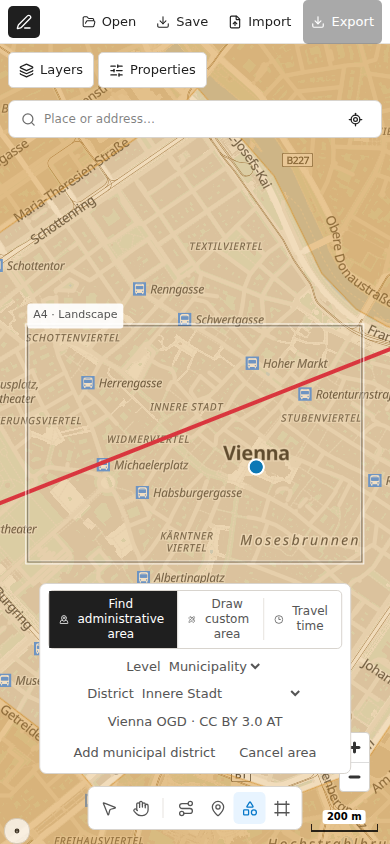
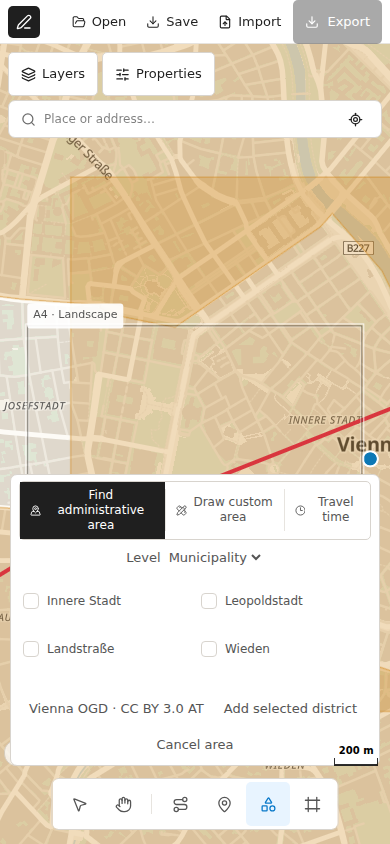
[verified] merge connected Vienna districts

diff --git a/tests/e2e/shape-authoring.spec.ts b/tests/e2e/shape-authoring.spec.ts
@@ -6,7 +6,7 @@ const isHeadlessWebGlDiagnostic = (message: string) => (
   || message.includes('AllowWebgl2:false restricts context creation on this system')
 );
 
-test('Vienna municipality catalogue preserves source credit through project and print downloads', async ({ page }, testInfo) => {
+test('Vienna municipality selection and merging preserve source credit through project and print downloads', async ({ page }, testInfo) => {
   const consoleProblems: string[] = [];
   page.on('pageerror', (error) => { consoleProblems.push(error.message); });
   page.on('console', (message) => {
@@ -19,17 +19,18 @@ test('Vienna municipality catalogue preserves source credit through project and 
 
   await page.getByRole('button', { name: 'Area (S)' }).click();
   await page.getByRole('combobox', { name: 'Administrative level' }).selectOption('municipality');
-  const district = page.getByRole('combobox', { name: 'Vienna district' });
-  await expect(district.getByRole('option')).toHaveCount(23);
+  const districts = page.getByRole('group', { name: 'Vienna districts' });
+  await expect(districts.getByRole('checkbox')).toHaveCount(23);
   await expect(page.getByRole('link', { name: 'Vienna district boundaries source' })).toHaveAttribute('href', /BEZIRKSGRENZEOGD/);
   await expect(page.getByRole('link', { name: 'CC BY 3.0 AT license' })).toHaveAttribute('href', 'https://creativecommons.org/licenses/by/3.0/at/');
-  await district.selectOption('AT-9-01');
-  await page.getByRole('button', { name: 'Add municipal district' }).click();
-  await expect(page.getByRole('button', { name: 'Select Innere Stadt' })).toHaveAttribute('aria-current', 'true');
-  await expect(page.getByTestId('map-canvas')).toHaveAttribute('data-map-layer-geometry', /admin-at-9-01:/);
+  await page.getByRole('checkbox', { name: 'Innere Stadt' }).check();
+  await page.getByRole('checkbox', { name: 'Josefstadt' }).check();
+  await page.getByRole('button', { name: 'Merge 2 selected districts' }).click();
+  await expect(page.getByRole('button', { name: 'Select Innere Stadt + Josefstadt' })).toHaveAttribute('aria-current', 'true');
+  await expect(page.getByTestId('map-canvas')).toHaveAttribute('data-map-layer-geometry', /admin-at-9-01-at-9-08:/);
   await page.getByRole('switch', { name: 'Invert shape fill' }).check();
-  await expect(page.getByTestId('map-canvas')).toHaveAttribute('data-map-layer-appearance', /admin-at-9-01:[^|]*:true/);
-  await page.screenshot({ animations: 'disabled', path: 'docs/screenshots/latest-desktop.png' });
+  await expect(page.getByTestId('map-canvas')).toHaveAttribute('data-map-layer-appearance', /admin-at-9-01-at-9-08:[^|]*:true/);
+  await page.screenshot({ animations: 'disabled', path: 'docs/screenshots/vienna-district-merge-20260826.png' });
 
   const projectPromise = page.waitForEvent('download');
   await page.getByRole('button', { name: 'Save' }).click();
@@ -37,10 +38,11 @@ test('Vienna municipality catalogue preserves source credit through project and 
   const projectPath = testInfo.outputPath('vienna-district.printmap.json');
   await projectDownload.saveAs(projectPath);
   const project = JSON.parse(await readFile(projectPath, 'utf8'));
-  const districtLayer = project.layers.find(({ id }: { id: string }) => id === 'admin-at-9-01');
+  const districtLayer = project.layers.find(({ id }: { id: string }) => id === 'admin-at-9-01-at-9-08');
   expect(project.schemaVersion).toBe(20);
-  expect(districtLayer).toMatchObject({ name: 'Innere Stadt', geometry: { type: 'Polygon' }, appearance: { invert: true } });
-  expect(districtLayer.geometry.coordinates.flat().length).toBeLessThanOrEqual(500);
+  expect(districtLayer).toMatchObject({ name: 'Innere Stadt + Josefstadt', geometry: { type: 'Polygon' }, appearance: { invert: true } });
+  expect(districtLayer.geometry.coordinates).toHaveLength(1);
+  expect(districtLayer.geometry.coordinates.flat().length).toBeLessThanOrEqual(1000);
 
   await page.getByRole('button', { name: 'Export' }).click();
   const dialog = page.getByRole('dialog', { name: 'Export map' });
@@ -51,13 +53,14 @@ test('Vienna municipality catalogue preserves source credit through project and 
   const svgPath = testInfo.outputPath('vienna-district.layered.svg');
   await svgDownload.saveAs(svgPath);
   const svg = await readFile(svgPath, 'utf8');
-  expect(svg).toContain('data-layer-name="Innere Stadt"');
+  expect(svg).toContain('data-layer-name="Innere Stadt + Josefstadt"');
   expect(svg).toContain('City of Vienna OGD (CC BY 3.0 AT; boundaries simplified)');
 
   await page.getByRole('button', { name: 'Close export' }).click();
   await page.setViewportSize({ width: 390, height: 844 });
   await page.getByRole('button', { name: 'Area (S)' }).click();
   await page.getByRole('combobox', { name: 'Administrative level' }).selectOption('municipality');
+  await expect(page.getByRole('group', { name: 'Vienna districts' }).getByRole('checkbox')).toHaveCount(23);
   await page.screenshot({ animations: 'disabled', path: 'docs/screenshots/latest-mobile.png' });
   const panel = page.locator('.map-authoring-panel');
   const panelBox = await panel.boundingBox();

diff --git a/src/domain/administrativeAreas.ts b/src/domain/administrativeAreas.ts
@@ -1,3 +1,4 @@
+import { union as unionPolygons, type Polygon as ClippingPolygon } from 'polygon-clipping';
 import type { LayerGeometry } from './project';
 import { AUSTRIA_ADMIN_1_REGIONS } from '../data/austriaAdmin1';
 import { AUSTRIA_TYROL_REGION } from '../data/austriaTyrol';
@@ -32,6 +33,8 @@ type PolygonAdministrativeArea = AdministrativeArea & {
 const SOURCE = 'Natural Earth 1:110m Admin 0 Countries (public domain), downloaded 2026-08-23';
 const REGION_SOURCE = 'Natural Earth 1:10m Admin 1 States/Provinces (public domain), downloaded 2026-08-23';
 const MUNICIPALITY_SOURCE = 'City of Vienna Open Government Data district boundaries (CC BY 3.0 AT), downloaded 2026-08-24 and simplified at 0.00008° tolerance';
+const MUNICIPALITY_SLIVER_AREA_LIMIT = 1e-6;
+const MUNICIPALITY_SLIVER_AREA_RATIO = 1e-4;
 export const VIENNA_DISTRICT_SOURCE_URL = 'https://data.wien.gv.at/daten/geo?service=WFS&request=GetFeature&version=1.1.0&typeName=ogdwien:BEZIRKSGRENZEOGD&srsName=EPSG:4326&outputFormat=json';
 export const VIENNA_DISTRICT_LICENSE_URL = 'https://creativecommons.org/licenses/by/3.0/at/';
 const polygonRegionAreas = AUSTRIA_ADMIN_1_REGIONS.map((region): AdministrativeArea => ({
@@ -218,6 +221,27 @@ function mergeAlignedRings(areas: readonly PolygonAdministrativeArea[]): [number
   });
 }
 
+function mergeMunicipalityPolygons(areas: readonly PolygonAdministrativeArea[]): [number, number][][] | undefined {
+  try {
+    const polygons = areas.map(({ geometry }) => geometry.coordinates.map((ring) => (
+      ring.map(([longitude, latitude]) => [longitude, latitude] as [number, number])
+    )) as ClippingPolygon);
+    const [first, ...remaining] = polygons;
+    const merged = unionPolygons(first, ...remaining);
+    if (merged.length !== 1) return;
+    const [exterior, ...holes] = merged[0];
+    if (!exterior) return;
+    const sliverAreaLimit = Math.max(
+      MUNICIPALITY_SLIVER_AREA_LIMIT,
+      Math.abs(ringArea(exterior)) * MUNICIPALITY_SLIVER_AREA_RATIO,
+    );
+    const meaningfulHoles = holes.filter((ring) => Math.abs(ringArea(ring)) > sliverAreaLimit);
+    return [exterior, ...meaningfulHoles].map((ring) => ring.map(([longitude, latitude]) => [longitude, latitude]));
+  } catch {
+    return undefined;
+  }
+}
+
 function ringArea(ring: readonly (readonly [number, number])[]): number {
   let area = 0;
   for (let index = 1; index < ring.length; index += 1) {
@@ -228,23 +252,39 @@ function ringArea(ring: readonly (readonly [number, number])[]): number {
   return area / 2;
 }
 
-export function mergeAdministrativeAreas(ids: readonly string[]): AdministrativeArea | undefined {
+type MergeableAdministrativeLevel = Extract<AdministrativeArea['level'], 'region' | 'municipality'>;
+
+type AdministrativeAreaSelection = {
+  areas: AdministrativeArea[];
+  level: MergeableAdministrativeLevel;
+};
+
+function administrativeAreaSelection(ids: readonly string[]): AdministrativeAreaSelection | undefined {
   const uniqueIds = [...new Set(ids)];
   if (uniqueIds.length === 0 || uniqueIds.length !== ids.length) return;
   const areas = uniqueIds.map((id) => administrativeAreaById(id));
-  if (areas.some((area) => !area || area.level !== 'region')) return;
-  const regions = areas as AdministrativeArea[];
-  if (regions.length === 1) return regions[0];
-  if (regions.some(({ geometry }) => geometry.type !== 'Polygon')) return;
-  const polygonRegions = regions as PolygonAdministrativeArea[];
-  if (!isConnectedSelection(polygonRegions)) return;
-  const coordinates = mergeAlignedRings(polygonRegions);
+  const level = areas[0]?.level;
+  if ((level !== 'region' && level !== 'municipality') || areas.some((area) => !area || area.level !== level)) return;
+  return { areas: areas as AdministrativeArea[], level };
+}
+
+export function mergeAdministrativeAreas(ids: readonly string[]): AdministrativeArea | undefined {
+  const selection = administrativeAreaSelection(ids);
+  if (!selection) return;
+  const { areas: selectedAreas, level } = selection;
+  if (selectedAreas.length === 1) return selectedAreas[0];
+  if (selectedAreas.some(({ geometry }) => geometry.type !== 'Polygon')) return;
+  const polygonAreas = selectedAreas as PolygonAdministrativeArea[];
+  if (!isConnectedSelection(polygonAreas)) return;
+  const coordinates = level === 'municipality'
+    ? mergeMunicipalityPolygons(polygonAreas)
+    : mergeAlignedRings(polygonAreas);
   if (!coordinates) return;
   return {
-    id: regions.map(({ id }) => id).join('+'),
-    name: regions.map(({ name }) => name).join(' + '),
-    level: 'region',
-    source: REGION_SOURCE,
+    id: selectedAreas.map(({ id }) => id).join('+'),
+    name: selectedAreas.map(({ name }) => name).join(' + '),
+    level,
+    source: level === 'municipality' ? MUNICIPALITY_SOURCE : REGION_SOURCE,
     geometry: { type: 'Polygon', coordinates },
   };
 }

diff --git a/src/app/components/AdministrativeAreaPicker.tsx b/src/app/components/AdministrativeAreaPicker.tsx
@@ -20,11 +20,20 @@ export function AdministrativeAreaPicker({ onAdd, onMerge }: AdministrativeAreaP
   const municipalityAreas = ADMINISTRATIVE_AREAS.filter(({ level }) => level === 'municipality');
   const [level, setLevel] = useState<AdministrativeArea['level']>('country');
   const [countryAreaId, setCountryAreaId] = useState<AdministrativeAreaId>(countryAreas[0].id as AdministrativeAreaId);
-  const [municipalityAreaId, setMunicipalityAreaId] = useState<AdministrativeAreaId>(municipalityAreas[0].id as AdministrativeAreaId);
+  const [selectedMunicipalityIds, setSelectedMunicipalityIds] = useState<AdministrativeAreaId[]>([]);
   const [selectedRegionIds, setSelectedRegionIds] = useState<AdministrativeAreaId[]>([]);
+  const [municipalityError, setMunicipalityError] = useState('');
   const [regionError, setRegionError] = useState('');
+  const selectedMunicipalityIdSet = useMemo(() => new Set(selectedMunicipalityIds), [selectedMunicipalityIds]);
   const selectedRegionIdSet = useMemo(() => new Set(selectedRegionIds), [selectedRegionIds]);
   const selectedCountry = administrativeAreaById(countryAreaId);
+  const toggleMunicipality = (id: AdministrativeAreaId, isChecked: boolean) => {
+    setMunicipalityError('');
+    setSelectedMunicipalityIds((current) => isChecked ? [...current, id] : current.filter((candidate) => candidate !== id));
+  };
+  const mergeMunicipalities = () => {
+    if (!onMerge(selectedMunicipalityIds)) setMunicipalityError('Choose connected Vienna districts.');
+  };
   const toggleRegion = (id: AdministrativeAreaId, isChecked: boolean) => {
     setRegionError('');
     setSelectedRegionIds((current) => isChecked ? [...current, id] : current.filter((candidate) => candidate !== id));
@@ -56,9 +65,15 @@ export function AdministrativeAreaPicker({ onAdd, onMerge }: AdministrativeAreaP
         </>
       ) : (
         <>
-          <label>District <select aria-label="Vienna district" value={municipalityAreaId} onChange={(event) => setMunicipalityAreaId(event.target.value as AdministrativeAreaId)}>{municipalityAreas.map((area) => <option key={area.id} value={area.id}>{area.name}</option>)}</select></label>
+          <fieldset className="administrative-region-options">
+            <legend>Vienna districts</legend>
+            {municipalityAreas.map((area) => (
+              <Checkbox key={area.id} isChecked={selectedMunicipalityIdSet.has(area.id as AdministrativeAreaId)} label={area.name} onCheckedChange={(isChecked) => toggleMunicipality(area.id as AdministrativeAreaId, isChecked)} />
+            ))}
+          </fieldset>
           <span className="authoring-source"><a aria-label="Vienna district boundaries source" href={VIENNA_DISTRICT_SOURCE_URL} rel="noreferrer" target="_blank">Vienna OGD</a> · <a aria-label="CC BY 3.0 AT license" href={VIENNA_DISTRICT_LICENSE_URL} rel="noreferrer" target="_blank">CC BY 3.0 AT</a></span>
-          <button type="button" onClick={() => onAdd(municipalityAreaId)}>Add municipal district</button>
+          <button type="button" disabled={selectedMunicipalityIds.length === 0} onClick={mergeMunicipalities}>{selectedMunicipalityIds.length > 1 ? `Merge ${selectedMunicipalityIds.length} selected districts` : 'Add selected district'}</button>
+          {municipalityError && <span className="administrative-region-error" role="alert" aria-label="Administrative area status">{municipalityError}</span>}
         </>
       ))}
     </>

diff --git a/tests/unit/app/app-shape-authoring.test.tsx b/tests/unit/app/app-shape-authoring.test.tsx
@@ -24,6 +24,24 @@ it('uses roving arrow, Home, and End selection in the Shape tablist', async () =
   expect(screen.getByRole('tab', { name: 'Travel time' })).toHaveFocus();
 });
 
+it('merges selected Vienna districts as one fitted undoable shape', async () => {
+  const user = userEvent.setup();
+  render(<App autosaveRepository={null} />);
+
+  await user.click(screen.getByRole('button', { name: 'Area (S)' }));
+  await user.selectOptions(screen.getByRole('combobox', { name: 'Administrative level' }), 'municipality');
+  await user.click(screen.getByRole('checkbox', { name: 'Innere Stadt' }));
+  await user.click(screen.getByRole('checkbox', { name: 'Josefstadt' }));
+  await user.click(screen.getByRole('button', { name: 'Merge 2 selected districts' }));
+
+  const merged = screen.getByRole('button', { name: 'Select Innere Stadt + Josefstadt' });
+  expect(merged).toHaveAttribute('aria-current', 'true');
+  expect(screen.getByTestId('map-canvas')).toHaveAttribute('data-fit-layer-id', 'admin-at-9-01-at-9-08');
+  expect(screen.getByRole('button', { name: 'Select (V)' })).toHaveFocus();
+  await user.click(screen.getByRole('button', { name: 'Undo' }));
+  expect(merged).not.toBeInTheDocument();
+});
+
 describe('polygon authoring', () => {
   it('adds one sourced Vienna municipal district as a fitted undoable shape', async () => {
     const user = userEvent.setup();
@@ -31,16 +49,16 @@ describe('polygon authoring', () => {
 
     await user.click(screen.getByRole('button', { name: 'Area (S)' }));
     await user.selectOptions(screen.getByRole('combobox', { name: 'Administrative level' }), 'municipality');
-    const district = screen.getByRole('combobox', { name: 'Vienna district' });
-    expect(within(district).getAllByRole('option')).toHaveLength(23);
-    await user.selectOptions(district, 'AT-9-01');
+    const districts = screen.getByRole('group', { name: 'Vienna districts' });
+    expect(within(districts).getAllByRole('checkbox')).toHaveLength(23);
+    await user.click(within(districts).getByRole('checkbox', { name: 'Innere Stadt' }));
     expect(screen.getByRole('link', { name: 'Vienna district boundaries source' })).toHaveAttribute(
       'href', expect.stringContaining('BEZIRKSGRENZEOGD'),
     );
     expect(screen.getByRole('link', { name: 'CC BY 3.0 AT license' })).toHaveAttribute(
       'href', 'https://creativecommons.org/licenses/by/3.0/at/',
     );
-    await user.click(screen.getByRole('button', { name: 'Add municipal district' }));
+    await user.click(screen.getByRole('button', { name: 'Add selected district' }));
 
     const layer = screen.getByRole('button', { name: 'Select Innere Stadt' });
     expect(layer).toHaveAttribute('aria-current', 'true');

diff --git a/tests/unit/administrative-areas.test.ts b/tests/unit/administrative-areas.test.ts
@@ -115,6 +115,34 @@ describe('bundled administrative areas', () => {
     expect(mergeAdministrativeAreas(['AT-1', 'AT-8'])).toBeUndefined();
   });
 
+  it('merges adjacent Vienna municipal districts without an internal border', () => {
+    const merged = mergeAdministrativeAreas(['AT-9-01', 'AT-9-08']);
+
+    expect(merged).toMatchObject({
+      id: 'AT-9-01+AT-9-08',
+      name: 'Innere Stadt + Josefstadt',
+      level: 'municipality',
+    });
+    expect(merged?.geometry.type).toBe('Polygon');
+    expect(merged?.geometry.coordinates).toHaveLength(1);
+    expect(mergeAdministrativeAreas(['AT-9-01', 'AT-9-23'])).toBeUndefined();
+    expect(mergeAdministrativeAreas(['AT-9-01', 'AT-3'])).toBeUndefined();
+  });
+
+  it('merges representative connected Vienna selections without artificial holes', () => {
+    const selections = [
+      ['AT-9-02', 'AT-9-20'],
+      ['AT-9-16', 'AT-9-17'],
+      ADMINISTRATIVE_AREAS.filter(({ level }) => level === 'municipality').map(({ id }) => id),
+    ];
+
+    for (const selection of selections) {
+      const merged = mergeAdministrativeAreas(selection);
+      expect(merged?.geometry.type, selection.join(' + ')).toBe('Polygon');
+      expect(merged?.geometry.coordinates, selection.join(' + ')).toHaveLength(1);
+    }
+  });
+
   it('adds a selected administrative area as one undoable canonical shape', () => {
     const store = createProjectStore(createInitialProjectDocument());
 

diff --git a/docs/FEATURE_PARITY.md b/docs/FEATURE_PARITY.md
@@ -24,7 +24,7 @@ This comparison treats the current official Printmaps.net product pages as the e
 | Native-detail print PNG | Implemented with explicit multi-region guards | `src/map/NativeMapExport.ts` renders each preflight region through a fresh target-pixel MapLibre map at increased zoom, scales basemap and canonical overlay styling into print pixels, and fails closed for pitched or independently placed symbol seams; `src/export/printSizePng.ts` composes safe overlap regions 1:1; unit and browser export tests prove exact 3508×2480 and guarded two-region 7087×591 output. | This is native target-resolution raster rendering, not a browser-canvas enlargement. Multi-region jobs require 0° pitch and Labels off; single-region jobs retain labels and pitch. PNG still has no embedded physical-resolution metadata. |
 | Expert route drawing and vertex editing | Partial / substantially expanded | `src/app/components/CanvasWorkspace.tsx`; `src/app/hooks/useDirectionsAuthoring.ts`; `src/services/mapbox/directions.ts`; `src/domain/routeProfiles.ts`; `src/map/RouteVertexEditing.ts`; focused store/component/provider coverage and `tests/e2e/road-routing.spec.ts` | Straight drawing, canonical two-anchor projected/Mercator arcs and Mapbox road routing for driving/walking/cycling are implemented. Provider geometry is normalized into editable schema-20 `LineString` state with compact provenance, one-step Undo/Redo, autosave/portable persistence and offline native-PNG/layered-SVG/PDF parity; exports never replay the provider request. Explicit address-search results and map clicks both populate road-route waypoints. Six optional travel-mode markers and direct vertex editing remain available; the compact mode markers are not a full pictographic icon catalogue. |
 | POI placement, coordinates, appearance and batch entry | Partial / substantially expanded | Point authoring and coordinate controls in `src/app/`; explicit Mapbox address results become one named schema-20 POI with compact `geocoding-v6` provenance; three canonical marker shapes, six semantic symbols and optional 40-character labels in `src/domain/poiMarkers.ts`; bounded tab-separated coordinate and address batches under `src/domain/poiSpreadsheet.ts`; hash-owned PNG/JPEG/SVG marker validation in `src/domain/customMarkerAssets.ts`; keyboard-operable upload/remove controls; live MapLibre, native PNG and layered-SVG custom-marker coverage in `tests/e2e/layer-appearance.spec.ts`, `tests/e2e/search-poi.spec.ts` and `tests/e2e/poi-authoring.spec.ts` | Coordinate rows create up to 300 POIs locally; address mode resolves at most 25 rows sequentially through Mapbox Geocoding v6 and commits only after every lookup succeeds. Both paths are one-step Undoable, portable and exportable offline without replaying provider requests. Manual coordinate edits remove stale provider provenance. PDF currently refuses custom images instead of substituting the wrong marker; semantic symbols remain compact badges. |
[2 lines of base64/hex data omitted]
 | Elevation profiles | Partial / useful integrated workflow | A selected existing or imported route can sample at most 100 points from Open-Meteo's documented 90 m Copernicus DEM GLO-90 elevation endpoint, inspect distance/range/ascent/descent in metric or imperial units, choose an exact 50–300 mm print width, solid or two-color gradient fill, curve/fill/marker colors, a validated 20–70 font size, bounded minimum/maximum markers and independent grids, then download matching attributed SVG, PNG and PDF; focused unit and Chromium coverage under `tests/unit/elevation-profile*.test.*` and `tests/e2e/elevation-profile.spec.ts` proves exact physical/vector dimensions and width-scaled PNG pixels. | This is an on-demand external-service workflow, not offline terrain. The public Open-Meteo endpoint is documented for non-commercial use unless a commercial customer endpoint or self-hosting is arranged. The local markers intentionally label only minimum/maximum elevations rather than every sample. A curve-stroke toggle, direct profile-only file upload and walking/cycling time estimates remain absent. |
 | GPX/KML/GeoJSON import | Implemented / expanded | Strict parsers in `src/import/`; bounded all-or-nothing batch orchestration in `src/import/mapDataBatch.ts`; drag/drop and multi-select review in `src/app/components/MapDataImportPortals.tsx`; reviewed add batches apply bounded route color/width, POI color/size/shape and shape fill/outline/width before one canonical commit; selected unlocked layers can replace geometry while retaining canonical identity and appearance; focused unit and Chromium coverage | Up to 10 new files / 20 MiB can be reviewed before one Undoable add, with an explicit fit/retain-view choice. One starting style applies to every imported layer of the same type in that batch; per-layer refinement remains available after import. Replace-in-place stays deliberately one file, one feature and the same layer type. |
 | Local autosave, open, portable download and direct file actions | Exceeds official core workflow | IndexedDB autosave under `src/storage/`; validated portable JSON plus JSON/ZIP Open support; an inline project title and direct top-bar **Open**, **Save**, **Import** and **Export** actions; focused unit and Chromium project-file/navigation suites | Autosave remains authoritative. **Save** is an explicit download of the current portable project, not an unsaved-state indicator. Share, the File menu and the archive-download action are intentionally removed; Open retains ZIP compatibility for existing portable archives. |

diff --git a/docs/FINDINGS.md b/docs/FINDINGS.md
@@ -1031,3 +1031,13 @@ Return to feature breadth next: deliver one bounded municipality/region catalogu
 - Final serial milestone verification exits 0: typecheck; ESLint with zero warnings; React Doctor with no issues; Vitest 115 files / 812 tests; production build with the known 2.35 MB pre-gzip main-chunk warning; `npm audit --audit-level=high` with 0 vulnerabilities; and Chromium 72/72 across three one-worker shards. Firefox and WebKit were not run, per the project-owner policy.
[1 lines of base64/hex data omitted]
 - `docs/FEATURE_PARITY.md` now reflects the delivered bounded batch-geocoding workflow and the clean 72-test Chromium milestone instead of listing the completed slice as absent. The fresh fail-closed review passed with no security concern or logic error; the milestone remediation and evidence are committed. `docs/COMPLETE.md` remains absent and scheduler job `5c693a328765` stays enabled.
+
+### 2026-08-26 — Connected Vienna municipal-district merging (targeted verification complete, pending review)
+
+- Re-audited clean main, live processes, historical worktrees and the persistent preview before editing. Travel-time Areas and the Chromium-only provider milestone were already complete, independently reviewed and committed; this slice resumed the next documented parity priority without changing provider or route behavior.
+- Municipality authoring now presents all 23 attributed Vienna districts as accessible checkboxes. One selection retains the existing add behavior; two or more connected districts merge through a bounded polygon-clipping union into one canonical Polygon with aligned internal boundaries removed. Simplification-only sliver holes below a conservative absolute/relative area threshold are discarded while meaningful holes remain; mixed-level, duplicate and disconnected selections fail closed. The City of Vienna OGD source/license and existing print attribution remain unchanged.
+- The merged district is one selected, auto-fitted, Undoable schema-20 shape and immediately uses the existing live editing, autosave, portable JSON/ZIP, native PNG, layered SVG and PDF paths. The impacted Chromium flow merged Innere Stadt + Josefstadt, inverted the shape, downloaded canonical JSON, verified one credited layered-SVG group and proved 390×844 containment with a clean console/page-error buffer.
+- Strict RED/GREEN evidence: `vitest run tests/unit/administrative-areas.test.ts -t "merges adjacent Vienna municipal districts without an internal border"` first received `undefined`, then passed 1/1 after same-level municipality merging was enabled. `vitest run tests/unit/app/app-shape-authoring.test.tsx -t "merges selected Vienna districts as one fitted undoable shape"` first could not find the Innere Stadt checkbox, then passed 1/1 after the multi-select UI wiring. The retained single-district exact test also passes 1/1.
+- Focused verification: typecheck passes; ESLint passes with zero warnings; and the sole impacted Chromium test `Vienna municipality selection and merging preserve source credit through project and print downloads` passes 1/1 in 14.2 seconds with one worker. No full unit suite, full Chromium suite, build, Doctor, audit, Firefox or WebKit run was used under the owner-required focused iteration policy.
[1 lines of base64/hex data omitted]
+- The first independent fail-closed review rejected the exact-edge merger because representative connected district selections produced tiny artificial interior rings. The remediation regression first received two, three or more rings for Leopoldstadt + Brigittenau, Ottakring + Hernals and the complete 23-district selection, then passed 1/1 after a bounded `polygon-clipping` union and conservative simplification-sliver filtering. The bounded independent recheck passed the original topology and documentation blockers with no security concern or logic error and independently reran the exact regression (1 passed / 9 skipped) without modifying the tree. `docs/COMPLETE.md` remains absent and scheduler job `5c693a328765` stays enabled while wider mission parity remains open.
